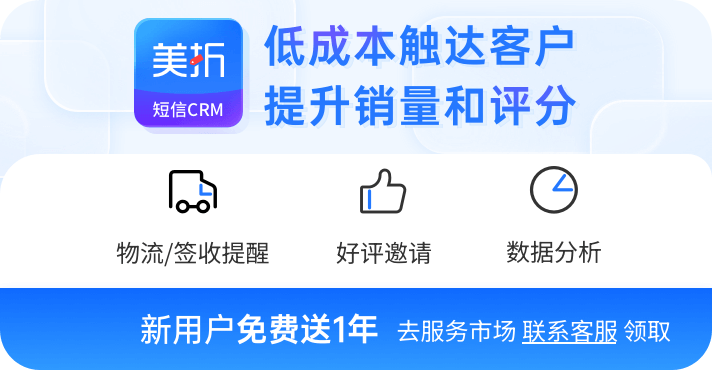
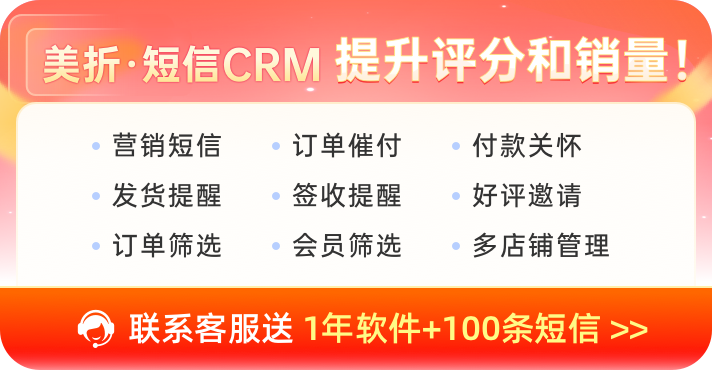
feat: 更换美折图片

diff --git a/src/modules/customerSetting/homePage/components/Banner.vue b/src/modules/customerSetting/homePage/components/Banner.vue
@@ -19,8 +19,8 @@ export default {
     return {
       items: [
         this.gotoSync,
-        this.gotoMeizhe,
-        this.gotoMeizheShouhou
+        this.gotoMeizheShouhou,
+        this.gotoMeizheDuanxin
 
       ]
     }
@@ -29,11 +29,11 @@ export default {
     gotoOrder () {
       window.open('https://fuwu.jinritemai.com/detail/purchase?service_id=42&sku_id=866&from=fuwu_market_home')
     },
-    gotoMeizhe () {
-      window.open('https://dx5.cn/454S1A')
+    gotoMeizheDuanxin () {
+      window.open('https://dx5.cn/45LhbP')
     },
     gotoMeizheShouhou () {
-      window.open('https://fuwu.jinritemai.com/detail?service_id=19772')
+      window.open('https://dx5.cn/45TfWd')
     },
     gotoSync () {
       this.$router.push({name: 'ProductsSync'})
@@ -87,11 +87,11 @@ export default {
   background-image: url('../images/banner2.png');
   background-size: cover;
 }
-.img1 {
+.img2 {
   background-image: url('../images/meizhe-duanxin.png');
   background-size: cover;
 }
-.img2 {
+.img1 {
   background-image: url('../images/meizhe-shouhou.png');
   background-size: cover;
 }
@@ -101,11 +101,11 @@ export default {
       background-image: url('../images/banner2-1680.png');
       background-size: cover;
     }
-    .img1 {
+    .img2 {
       background-image: url('../images/meizhe-duanxin-1680.png');
       background-size: cover;
     }
-    .img2 {
+    .img1 {
       background-image: url('../images/meizhe-shouhou-1680.png');
       background-size: cover;
     }
